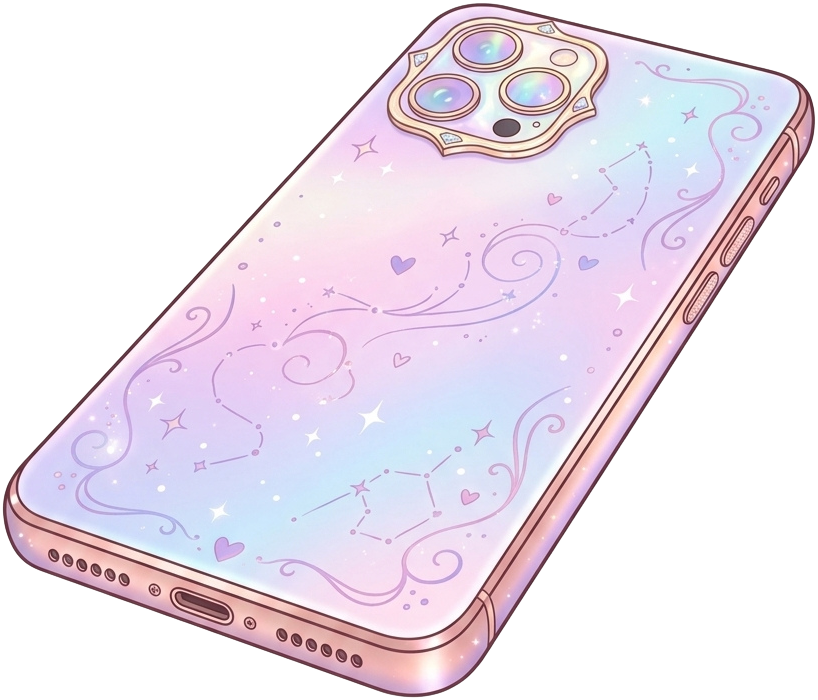
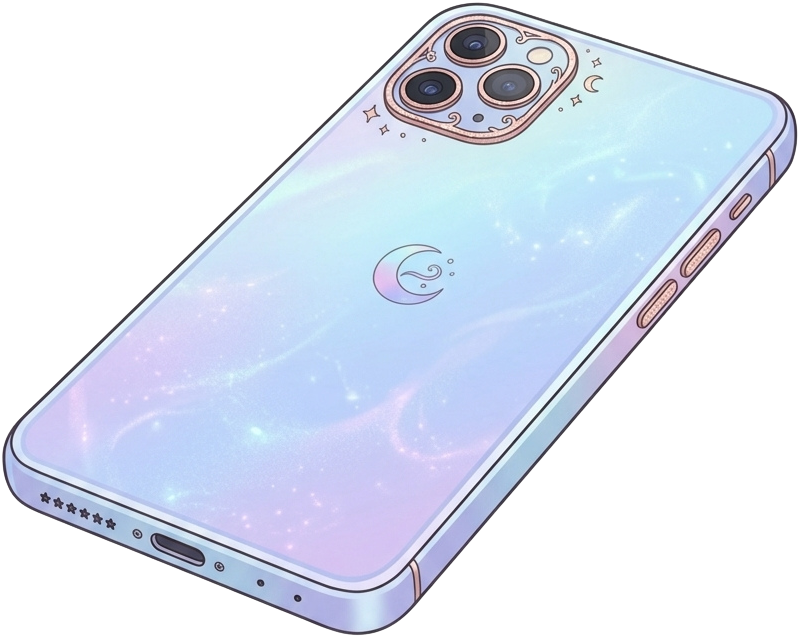
Phone: phone2's picture, lying right of the candle stand; the stars from the recipe name are all filled; the name no longer presses in on a click

diff --git a/css/style.css b/css/style.css
@@ -847,6 +847,7 @@ img.flamecopy,.stand .ontable img.flamecopy{position:absolute;inset:0;width:100%
   text-shadow:0 1px 2px rgba(40,10,50,.55),0 0 6px rgba(244,173,207,.95),0 0 16px rgba(244,173,207,.85),0 0 32px rgba(244,173,207,.65),0 0 56px rgba(244,173,207,.45);transition:text-shadow .2s ease}
 .tablebar .making:hover{background:none;box-shadow:none;text-shadow:0 1px 2px rgba(40,10,50,.55),0 0 7px #F4ADCF,0 0 18px rgba(244,173,207,.95),0 0 38px rgba(244,173,207,.8),0 0 66px rgba(244,173,207,.55)}
 .tablebar .making .mk{font-size:.7em;opacity:.8}
+.tablebar .making:active{transform:none}  /* no press-in on click: the stars are the effect */
 /* a pink haze behind the words, like a background colour that fades out at its edges (it spills past the words, so the
    name does not move) */
 .tablebar .making{position:relative;isolation:isolate}
@@ -969,10 +970,10 @@ body.dawning::after{content:'';position:fixed;inset:0;z-index:9999;cursor:defaul
 .dialogue button:not(.main):not(.dclose):not(.tutskip):not(.kw),.dialogue input,.dialogue select{background:color-mix(in srgb,var(--card) calc(var(--dlg-a)*100%),transparent)}
 .dialogue .coach{background:color-mix(in srgb,var(--butter) calc((var(--dlg-a) + .06)*100%),transparent)}
 
-/* ---------- the phone (phone.js): lying on the altar left of the candle stand (assets/scene/altar-phone.png, 818×700,
-   phone1, the designer's picture cut out), dimmed a little to the room's light like the stand. Test craft results come to it:
+/* ---------- the phone (phone.js): lying on the altar right of the candle stand (assets/scene/altar-phone.png, 800×638,
+   phone2, the designer's picture cut out), dimmed a little to the room's light like the stand. Test craft results come to it:
    it buzzes, then its Test Craft app opens, a window like the computer's apps. */
-.room .phone{position:absolute;left:19.3%;bottom:13.4%;width:5.4%;aspect-ratio:818/700;z-index:3;padding:0;border:0;background:none;box-shadow:none;cursor:pointer;
+.room .phone{position:absolute;left:29.2%;bottom:14%;width:5.4%;aspect-ratio:800/638;z-index:3;padding:0;border:0;background:none;box-shadow:none;cursor:pointer;
   filter:brightness(.86) saturate(.95) drop-shadow(0 .3cqw .25cqw rgba(60,10,40,.45));transition:filter .15s}
 .room .phone img{display:block;width:100%;height:100%;pointer-events:none}
 .room .phone:hover,.room .phone:focus-visible{background:none;box-shadow:none;outline:none;filter:brightness(.95) drop-shadow(0 0 .3cqw #FFD6F0) drop-shadow(0 0 .8cqw #F4ADCF) drop-shadow(0 .3cqw .25cqw rgba(60,10,40,.45))}

diff --git a/js/config.js b/js/config.js
@@ -68,7 +68,7 @@ const ASSETS = {
   pcWallpaper: 'assets/scene/desktop-background.jpg',  /* the computer's desktop */
   receipt: 'assets/scene/receipt.jpg',  /* the printed slip; receipts are written on it */
   candleStand: 'assets/candles/candle-stand.png',  /* always on the altar; the chosen candle stands in its cup */
-  altarPhone: 'assets/scene/altar-phone.png',  /* the phone lying on the altar left of the candle stand: test craft results come to it (phone1, the designer's picture, cut out) */
+  altarPhone: 'assets/scene/altar-phone.png',  /* the phone lying on the altar right of the candle stand: test craft results come to it (phone2, the designer's picture, cut out) */
   altarBell: 'assets/scene/altar-bell.png',  /* the silver bell on the altar: ringing it makes what is laid out (the designer's picture, cut out) */
   testCandles: [0,1,2,3,4,5].map(n=>'assets/candles/test-candles-'+n+'.png'),  /* the black candelabra right of the card; picture n has n candles lit */
   objects: {

diff --git a/js/actions.js b/js/actions.js
@@ -179,6 +179,6 @@ document.addEventListener('keydown',e=>{if(e.key!=='Escape')return;$('#receiptsV
 /* A burst of little pink stars from the middle of an element, flying out in a ring and fading (none with reduced motion). */
 function starBurst(el){if(calm())return;const r=el.getBoundingClientRect(),cx=r.left+r.width/2,cy=r.top+r.height/2,n=8;
   for(let i=0;i<n;i++){const a=(i/n)*Math.PI*2+Math.random()*.5,d=Math.max(r.width*.35,40)+Math.random()*30,s=document.createElement('span');
-    s.className='burst';s.textContent=i%2?'✦':'✧';s.setAttribute('aria-hidden','true');
+    s.className='burst';s.textContent='✦';s.setAttribute('aria-hidden','true');
     s.style.cssText=`left:${cx}px;top:${cy}px;--dx:${Math.cos(a)*d}px;--dy:${Math.sin(a)*d*.55}px;--sz:${12+Math.random()*10}px;animation-delay:${Math.random()*60}ms`;
     s.addEventListener('animationend',()=>s.remove());document.body.appendChild(s)}}

diff --git a/js/phone.js b/js/phone.js
@@ -1,4 +1,4 @@
-/* The phone on the altar (left of the candle stand). A test craft's result comes to it: the phone buzzes with a
+/* The phone on the altar (right of the candle stand). A test craft's result comes to it: the phone buzzes with a
    notification, then opens on its Test Craft app, which looks like the computer's apps (a window with a title bar). The
    last result stays on the phone (S.lastTest); clicking the phone opens it again. */
 const GRADE_NOTE={Perfect:'Perfect',Good:'Nearly',Clumsy:'Clumsy',Failed:'Failed'};
